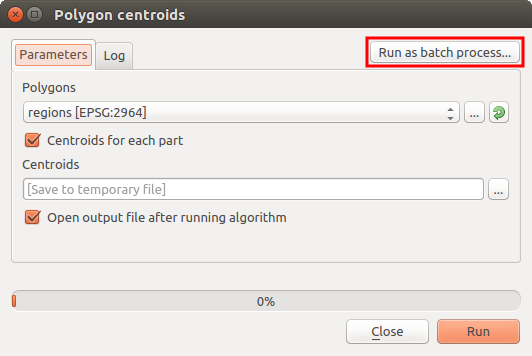
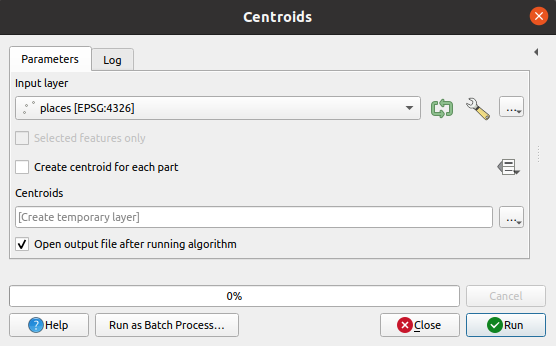
Upgraded the batch_processing section
Added up-to-data screenshots and the autofill-options.

I think it should fix:
fixes #3712
fixes #3713
fixes #3766
fixes #3710
fixes #3766

Changed region(s): [[0.0, 0.0, 1.0, 0.7514], [0.0, 0.8092, 0.9925, 0.9827], [0.8722, 0.4624, 0.9624, 0.6647]]

diff --git a/docs/user_manual/processing/batch.rst b/docs/user_manual/processing/batch.rst
@@ -121,6 +121,21 @@ particularly useful for naming output data objects according to input ones.
 
    Batch Processing File Path
 
+If the batch processing has more options than just input and output layers
+there are additional :guilabel:`Autofill...` options available:
+
+* :guilabel:`Fill Down` will take the input for the first process and enter
+  it for all other processes.
+* :guilabel:`Calculate by Expression...` will set the input value in regard
+  to the chosen expression. 
+* :guilabel:`Add Values by Expression...` will add new rows using the values
+  from an expression.
+
+.. tip:: **Add Values by Expression...**
+
+  The intended use case for :guilabel:`Add Values by Expression...` is to
+  populate the batch dialog using complex numeric series, e.g. those
+  created by the "generate_series" expression function. 
 
 Executing the batch process
 ---------------------------
